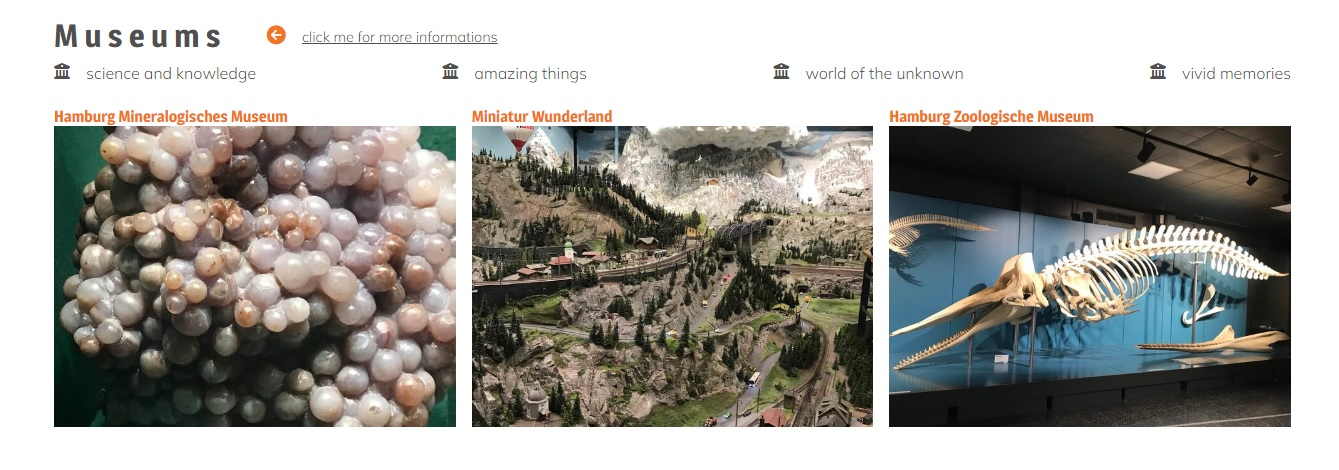
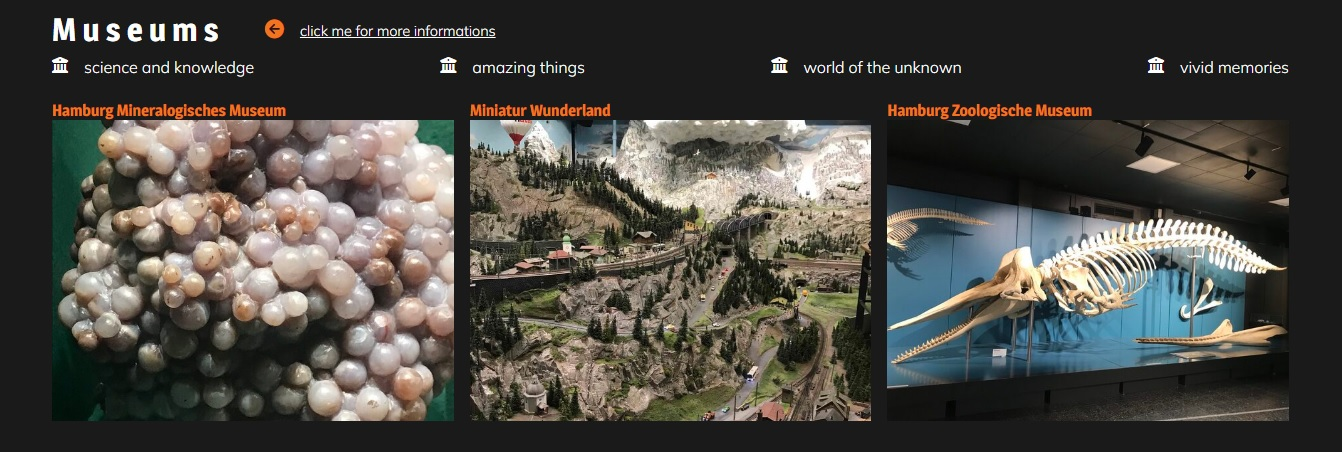
home page screenshot update. updating the text content of the color block

diff --git a/README.md b/README.md
@@ -145,7 +145,7 @@ The site is designed to maximize the interest of users and provide them with bri
 
 ### Colors
 
-For the text content on the site, a gray color was chosen, which contrasts well with the white background of the site. Fresh green and bright flowers were chosen for the accent and also to observe the interesting effect. The text content in the photo was overlaid with an accent color of orange, while the text content became white for contrast. I used Adobe Color to select the color.
+For the text content on the site, a white color was chosen, which contrasts well with the dark background of the site. Green and orange were chosen for the accent as well as for the hover effects. The text content in the photo was overlaid with an orange accent. I used Adobe Color to select the color.
 
 <details><summary>Screenshot (Adobe Color)</summary>
 <img src="assets/images/readme-images/screenshot-adobe-color.jpg">
@@ -333,8 +333,8 @@ The page is structured in a well know and user friendly. Upon arriving to the we
 
 - A green stripe of one of the site's accent colors additionally separates the section from the neighboring section.
 
-![Footer](assets/images/readme-images/feature-images/home-page/footer-one.jpg)
-![Footer](assets/images/readme-images/feature-images/home-page/footer-two.jpg)
+![Footer](assets/images/readme-images/feature-images/home-page/footer.jpg)
+
 
 ------
 
